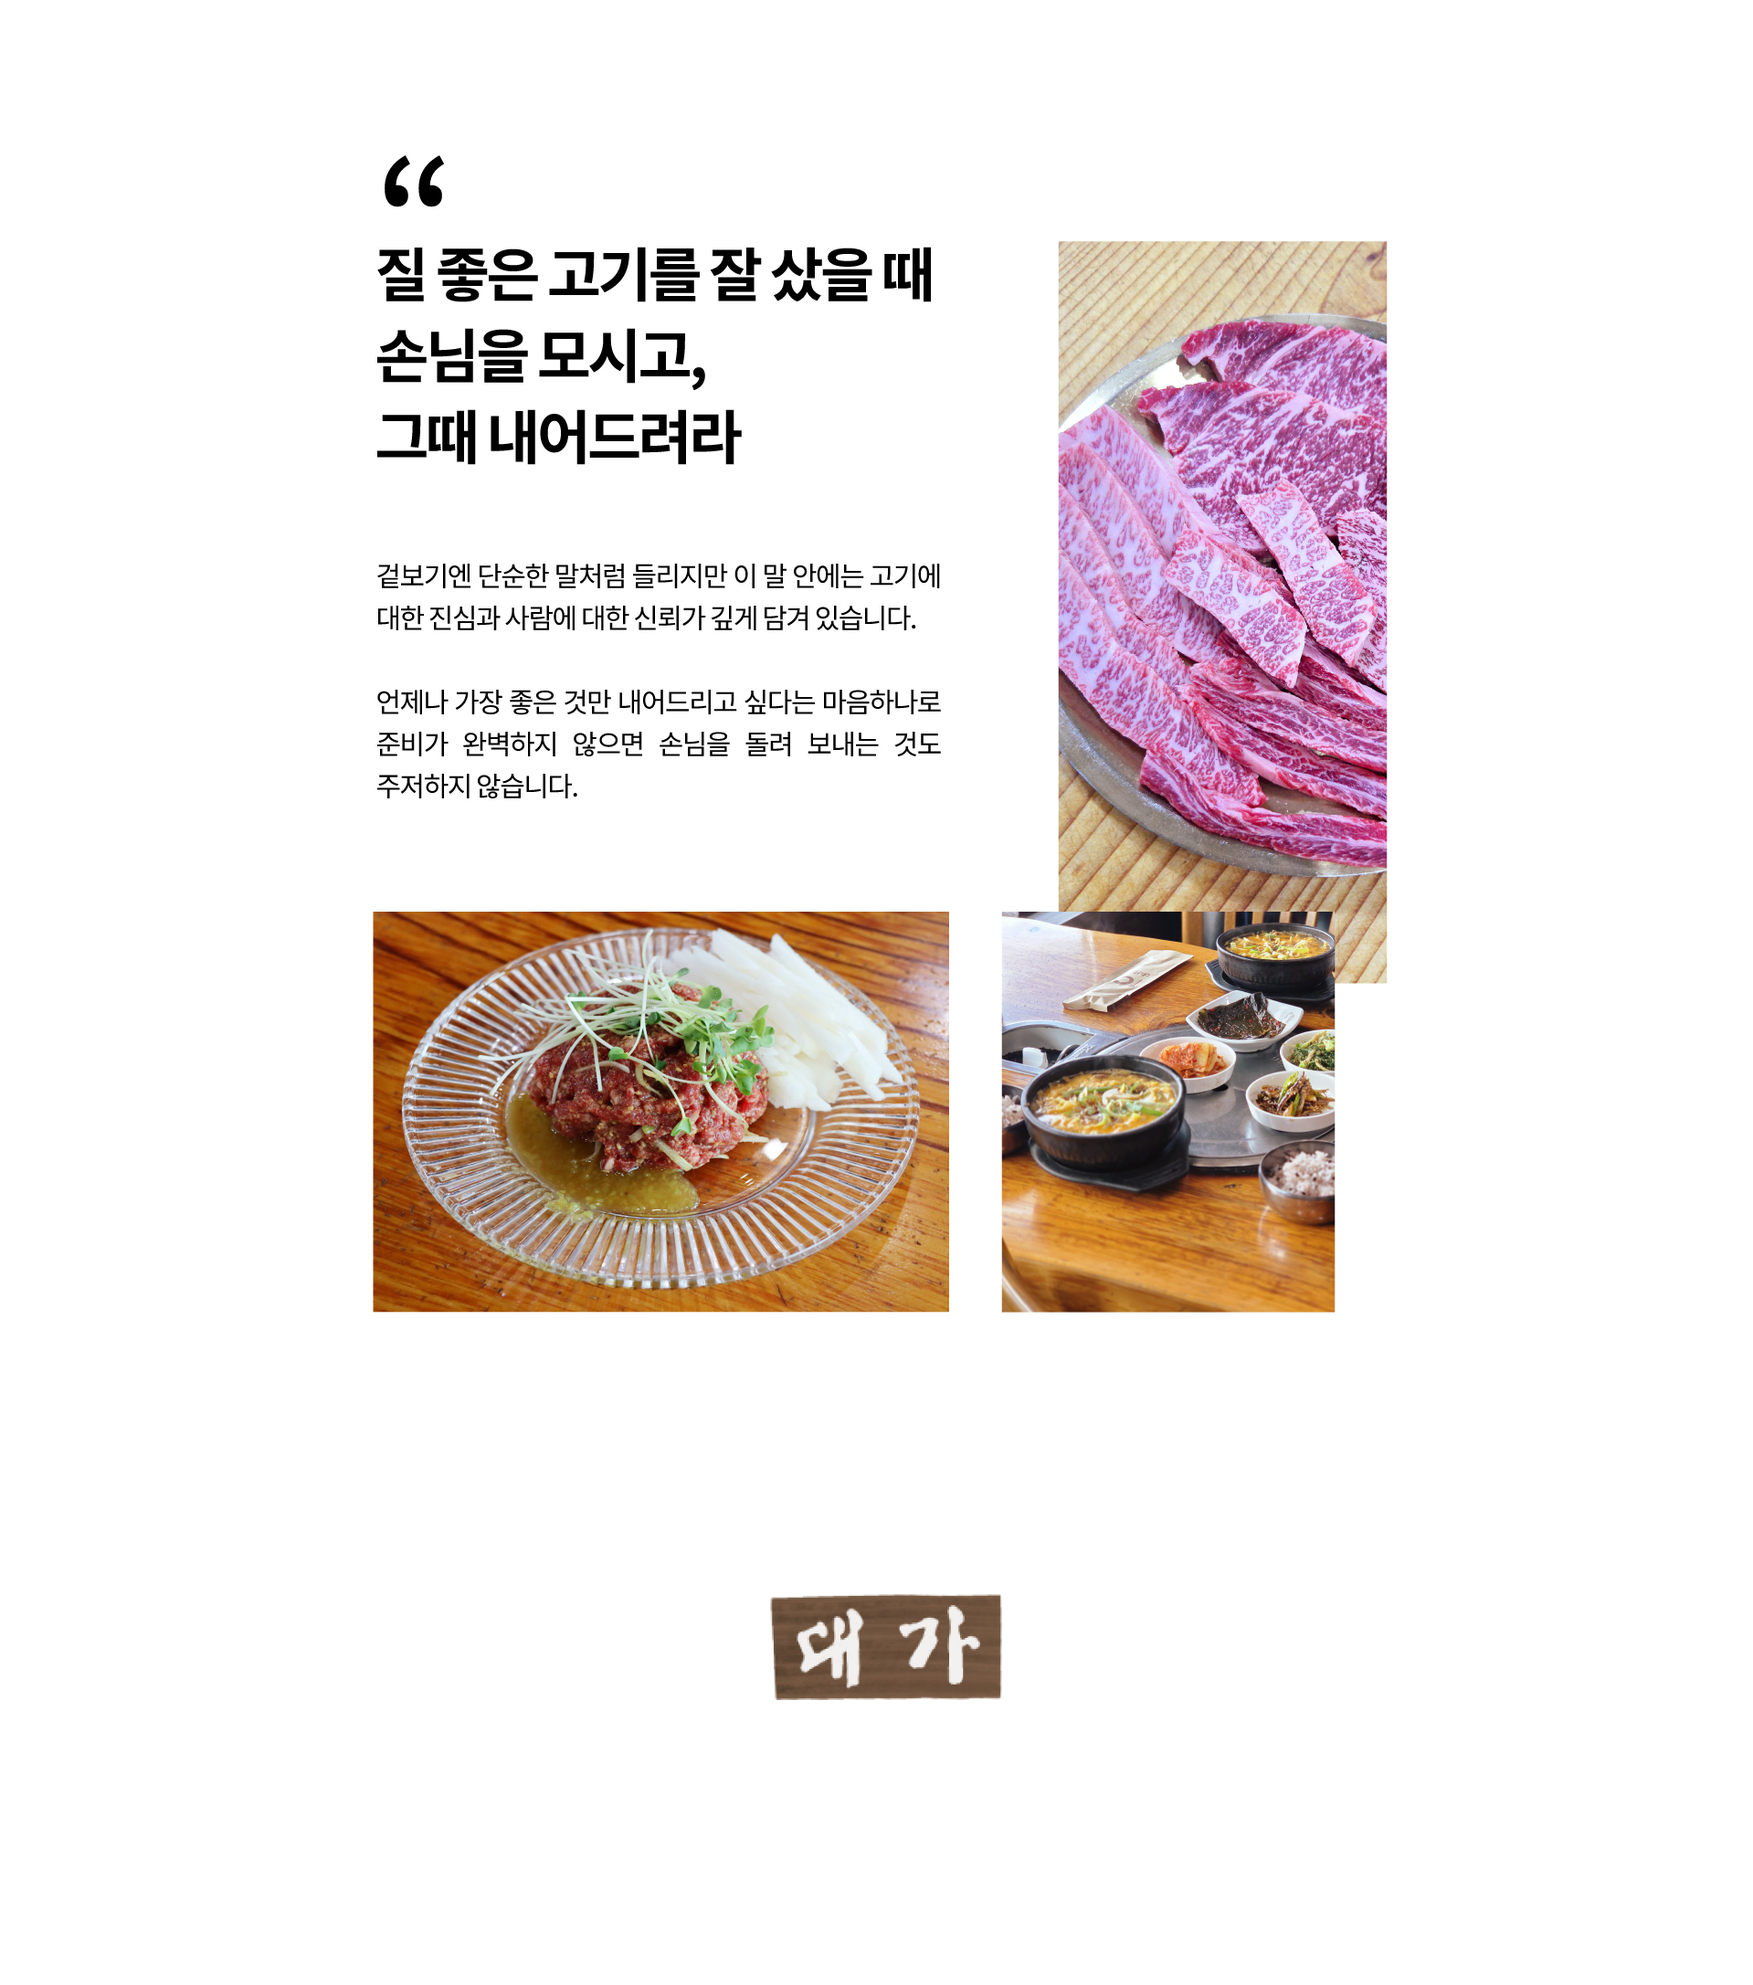
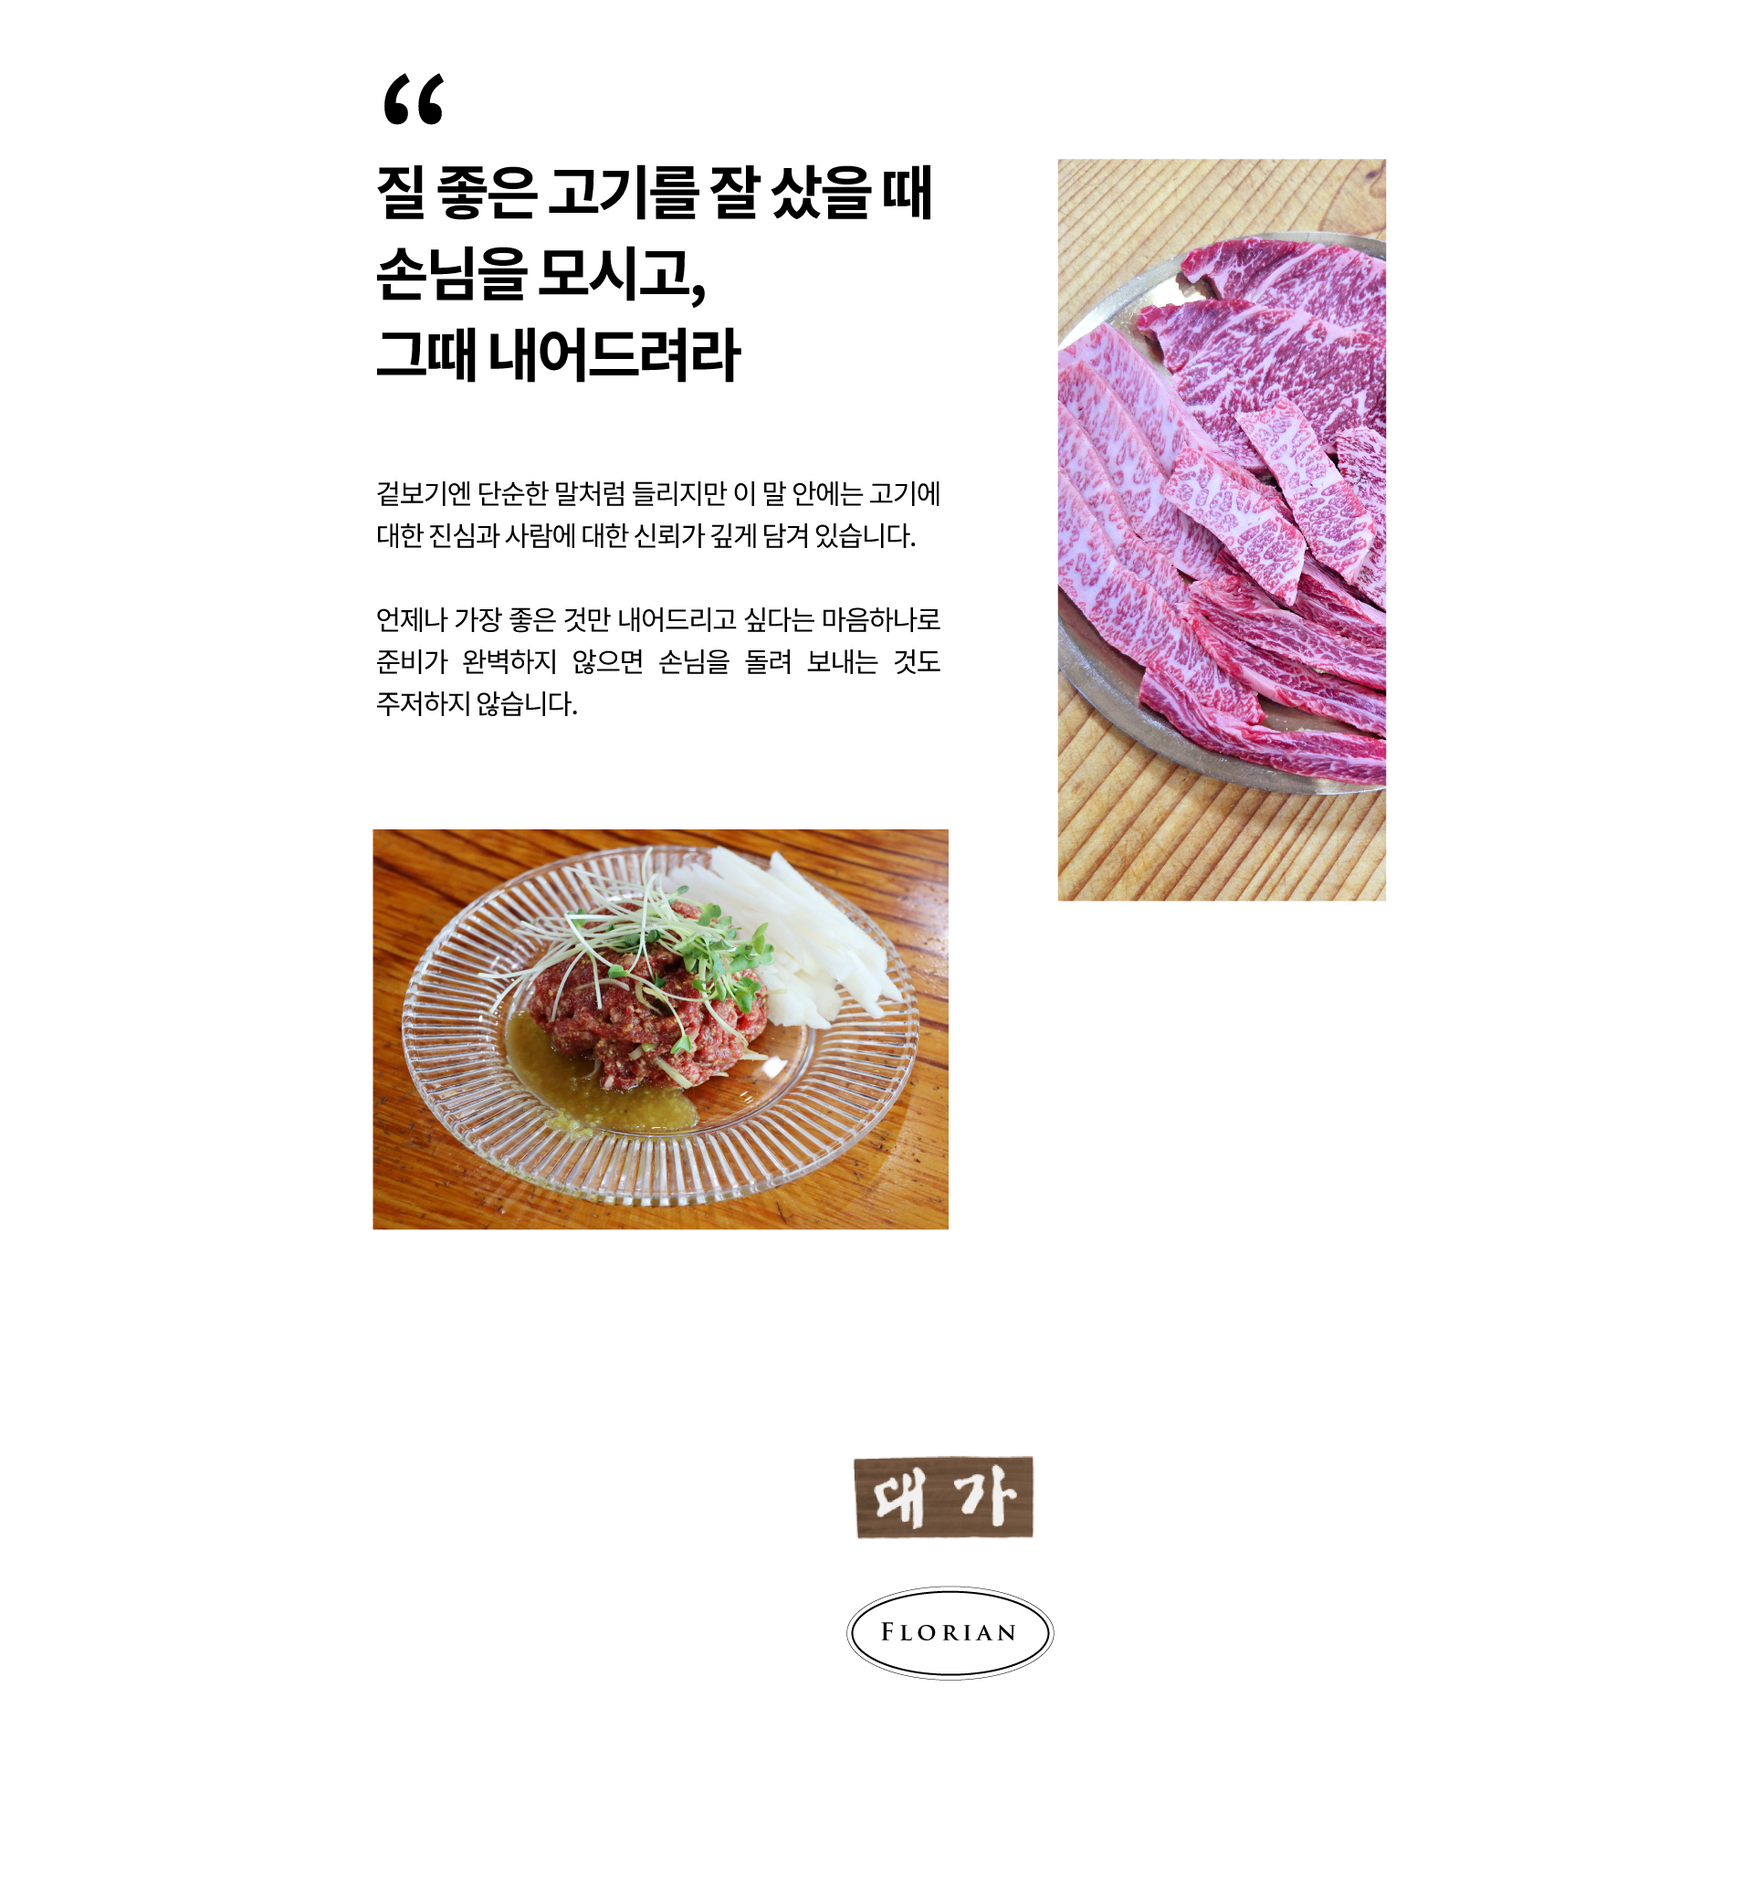
냥

Changed region(s): [[0.2152, 0.0623, 0.7994, 0.6852], [0.2152, 0.0311, 0.5534, 0.4049], [0.4304, 0.7786, 0.6149, 0.872]]

diff --git a/src/components/store/store_detail.js b/src/components/store/store_detail.js
@@ -104,6 +104,7 @@ export default function StoreDetail() {
     const imageCandidates = Array.from({ length: MAX_IMAGES }, (_, i) => `${storeName}_${i + 1}`);
     if (!selectedStore)
         return _jsx("div", { children: "\uAC00\uAC8C \uC815\uBCF4\uB97C \uCC3E\uC744 \uC218 \uC5C6\uC2B5\uB2C8\uB2E4." });
+    console.log(selectedStore.detailImagelist);
     useEffect(() => {
         const checkFavorite = async () => {
             const user = auth.currentUser;
@@ -176,6 +177,8 @@ export default function StoreDetail() {
                                         return _jsx("div", { children: line }, i);
                                     }) }))] }, `pc-${idx}`))) }), _jsx("div", { className: "detail-images-mobile only-mobile", children: selectedStore.detailImagelist
                             .filter((src) => /상세페이지_M_\d+\.(jpg|png)$/i.test(src))
+                            .map((src, idx) => (_jsx("img", { src: src, alt: `모바일 상세 이미지 ${idx + 1}`, className: "store-image" }, `m-${idx}`))) }), _jsx("div", { className: "detail-images-smobile only-smobile", children: selectedStore.detailImagelist
+                            .filter((src) => /상세페이지_SM_\d+\.(jpg|png)$/i.test(src))
                             .map((src, idx) => (_jsx("img", { src: src, alt: `모바일 상세 이미지 ${idx + 1}`, className: "store-image" }, `m-${idx}`))) })] }), selectedStore.name === "도원식육식당" && (_jsxs("div", { className: "dowon-product-section", children: [_jsxs("div", { className: "dowon-product-inner", children: [_jsxs("div", { className: "dowon-product-title", children: ["\uC544\uC774\uB514\uC5B4\uC2A4 \uC778\uAE30\uC81C\uD488 ", _jsx("span", { className: "highlight", children: "\uAD6C\uB9E4\uD558\uAE30" })] }), _jsxs("div", { className: "dowon-product-grid dowon-only-pc", children: [_jsx("div", { className: "dowon-product-item", children: _jsxs("a", { target: "_blank", rel: "noopener noreferrer", href: "https://www.idus.com/v2/product/25792545-088d-4d5c-bb89-762a3b6533b0?search_word=%EB%8F%84%EC%9B%90+%ED%95%9C%EC%9A%B0&keyword_channel=user", children: [_jsx("img", { src: "/SAMGA-V3/samga/store/dowon/1.png", alt: "1\uBC88 \uC0C1\uD488" }), _jsx("div", { className: "dowon-product-name", children: "\uD55C\uC6B0(\uB300\uD328)\uB85C\uC2A4\uAD6C\uC774(2-3\uC778)" })] }) }), _jsx("div", { className: "dowon-product-item", children: _jsxs("a", { target: "_blank", rel: "noopener noreferrer", href: "https://www.idus.com/v2/product/d0e10218-942c-4664-b1b3-0c6c770c9e7e?search_word=%EB%8F%84%EC%9B%90+%ED%95%9C%EC%9A%B0&keyword_channel=user", children: [_jsx("img", { src: "/SAMGA-V3/samga/store/dowon/2.png", alt: "2\uBC88 \uC0C1\uD488" }), _jsx("div", { className: "dowon-product-name", children: "\uD55C\uC6B0(\uB9CC\uB2A5)\uC790\uD22C\uB9AC1\uD0A4\uB85C" })] }) }), _jsx("div", { className: "dowon-product-item", children: _jsxs("a", { target: "_blank", rel: "noopener noreferrer", href: "https://www.idus.com/v2/product/1953a42a-00ca-4418-af1b-576b2876e7f5?search_word=%EB%8F%84%EC%9B%90+%ED%95%9C%EC%9A%B0&keyword_channel=user", children: [_jsx("img", { src: "/SAMGA-V3/samga/store/dowon/3.png", alt: "3\uBC88 \uC0C1\uD488" }), _jsx("div", { className: "dowon-product-name", children: "(\uB208\uAF43)(1++9)\uD55C\uC6B0 \uB4F1\uC2EC(300G)" })] }) }), _jsx("div", { className: "dowon-product-item", children: _jsxs("a", { target: "_blank", rel: "noopener noreferrer", href: "https://www.idus.com/v2/product/4ee9f37c-16ff-4457-aab2-e823035a4b4d?search_word=%EB%8F%84%EC%9B%90+%ED%95%9C%EC%9A%B0&keyword_channel=user", children: [_jsx("img", { src: "/SAMGA-V3/samga/store/dowon/4.png", alt: "4\uBC88 \uC0C1\uD488" }), _jsx("div", { className: "dowon-product-name", children: "(\uAD6D\uB0B4\uC0B0)\uB3FC\uC9C0 \uAC08\uBE44\uCC1C" })] }) }), _jsx("div", { className: "dowon-product-item", children: _jsxs("a", { target: "_blank", rel: "noopener noreferrer", href: "https://www.idus.com/v2/product/bd28e21e-e78c-4296-ae61-1f48da56bbe2?search_word=%EB%8F%84%EC%9B%90+%ED%95%9C%EC%9A%B0&keyword_channel=user", children: [_jsx("img", { src: "/SAMGA-V3/samga/store/dowon/5.png", alt: "5\uBC88 \uC0C1\uD488" }), _jsx("div", { className: "dowon-product-name", children: "(\uBA85\uD488\uD55C\uC6B0\uC120\uBB3C)\uD55C\uC6B0\uD2B9\uBAA8\uB4EC0.6KG" })] }) })] }), _jsxs("div", { className: "dowon-product-grid dowon-only-mobile", children: [_jsx("div", { className: "dowon-product-item", children: _jsxs("a", { target: "_blank", rel: "noopener noreferrer", href: "https://www.idus.com/v2/product/25792545-088d-4d5c-bb89-762a3b6533b0?search_word=%EB%8F%84%EC%9B%90+%ED%95%9C%EC%9A%B0&keyword_channel=user", children: [_jsx("img", { src: "/SAMGA-V3/samga/store/dowon/1.png", alt: "1\uBC88 \uC0C1\uD488" }), _jsx("div", { className: "dowon-product-name", children: "\uD55C\uC6B0(\uB300\uD328)\uB85C\uC2A4\uAD6C\uC774(2-3\uC778)" })] }) }), _jsx("div", { className: "dowon-product-item", children: _jsxs("a", { target: "_blank", rel: "noopener noreferrer", href: "https://www.idus.com/v2/product/d0e10218-942c-4664-b1b3-0c6c770c9e7e?search_word=%EB%8F%84%EC%9B%90+%ED%95%9C%EC%9A%B0&keyword_channel=user", children: [_jsx("img", { src: "/SAMGA-V3/samga/store/dowon/2.png", alt: "2\uBC88 \uC0C1\uD488" }), _jsx("div", { className: "dowon-product-name", children: "\uD55C\uC6B0(\uB9CC\uB2A5)\uC790\uD22C\uB9AC1\uD0A4\uB85C" })] }) }), _jsx("div", { className: "dowon-product-item", children: _jsxs("a", { target: "_blank", rel: "noopener noreferrer", href: "https://www.idus.com/v2/product/1953a42a-00ca-4418-af1b-576b2876e7f5?search_word=%EB%8F%84%EC%9B%90+%ED%95%9C%EC%9A%B0&keyword_channel=user", children: [_jsx("img", { src: "/SAMGA-V3/samga/store/dowon/3.png", alt: "3\uBC88 \uC0C1\uD488" }), _jsx("div", { className: "dowon-product-name", children: "(\uB208\uAF43)(1++9)\uD55C\uC6B0 \uB4F1\uC2EC(300G)" })] }) }), _jsx("div", { className: "dowon-product-item", children: _jsxs("a", { target: "_blank", rel: "noopener noreferrer", href: "https://www.idus.com/v2/product/4ee9f37c-16ff-4457-aab2-e823035a4b4d?search_word=%EB%8F%84%EC%9B%90+%ED%95%9C%EC%9A%B0&keyword_channel=user", children: [_jsx("img", { src: "/SAMGA-V3/samga/store/dowon/4.png", alt: "4\uBC88 \uC0C1\uD488" }), _jsx("div", { className: "dowon-product-name", children: "(\uAD6D\uB0B4\uC0B0)\uB3FC\uC9C0 \uAC08\uBE44\uCC1C" })] }) })] })] }), _jsx("div", { className: "idius-all", children: _jsxs("a", { href: "https://www.idus.com/v2/search?keyword=%EB%8F%84%EC%9B%90%20%ED%95%9C%EC%9A%B0&keyword_channel=user", target: "_blank", rel: "noopener noreferrer", children: ["\uBAA8\uB4E0 \uC0C1\uD488 \uBCF4\uAE30 ", _jsx("span", { className: "arrow", children: ">" })] }) })] })), _jsxs("div", { className: "store-detail-top-wrapper", children: [_jsx("h2", { className: "section-title", children: "\uAC00\uAC8C \uC0C1\uC138 \uC774\uBBF8\uC9C0" }), _jsx("div", { className: "tab-buttons", children: tabs.map(tab => (_jsx("button", { className: `tab-button ${activeTab === tab ? 'active' : ''}`, onClick: () => setActiveTab(tab), children: tab }, tab))) }), _jsx("div", { className: "store-images", children: imageCandidates.map((name, idx) => (['.jpg', '.JPG', '.png'].map((ext) => {
                             const src = `/SAMGA-V3/samga/store/${currentFolder}/${name}${ext}`;
                             return (_jsx("img", { src: src, alt: `${storeName} ${activeTab} 이미지 ${idx + 1}`, className: "store-image", onError: (e) => {

diff --git a/src/components/store/storeDetail.css b/src/components/store/storeDetail.css
@@ -409,7 +409,7 @@
 }
 
 .deaga1-2 {
-  top: 14%;
+  top: 8%;
   left: 21%;
   transform: translateX(0);
   font-size: clamp(28px, 4vw, 60px);
@@ -786,19 +786,74 @@
 
 
 
-
-
+/* ✅ 처음엔 다 숨기기 */
 .only-pc {
-  display: block;
+  display: none;
 }
 
 .only-mobile {
   display: none;
 }
 
+.only-smobile {
+  display: none;
+}
+
+/* ✅ PC 전용 (1601px 이상) */
+@media (min-width: 1601px) {
+  .only-pc {
+    display: block;
+  }
+}
+
+/* ✅ 모바일 전용 (901px ~ 1600px) */
+@media (max-width: 1600px) and (min-width: 901px) {
+  .only-mobile {
+    display: block;
+    object-fit: cover;
+    width: 100%;
+    height: auto;
+  }
+
+  .detail-images-mobile .store-image {
+    width: 100%;
+    height: auto;
+    display: block;
+    object-fit: cover;
+  }
+
+  .detail-images-mobile {
+    width: 100%;
+  }
+
+}
+
+/* ✅ 소형 모바일 전용 (900px 이하) */
+@media (max-width: 900px) {
+  .only-smobile {
+    display: block;
+    /* object-fit: cover; */
+    width: 100%;
+    height: auto;
+  }
 
 
-@media (max-width: 1600px) {
+  .detail-images-smobile .store-image {
+    width: 100%;
+    height: auto;
+    display: block;
+    object-fit: cover;
+  }
+
+  .detail-images-smobile {
+    width: 100%;
+  }
+}
+
+
+
+
+/* @media (max-width: 1600px) {
   .only-pc {
     display: none;
   }
@@ -818,7 +873,7 @@
     width: 100%;
   }
 }
-
+ */
 
 .dowon-product-section {
   padding: 40px 20px;
@@ -886,7 +941,7 @@
     text-align: center;
     justify-content: center;
     align-items: center;
-    padding: 60px 20px 20px;
+    padding: 270px 20px 20px;
     box-sizing: border-box;
     align-items: center;
     /* ✅ 이거도 추가 추천 */
@@ -1285,10 +1340,7 @@
   }
 
   .store-slogan {
-    padding: 380px 20px 30px;
-    font-size: 24px;
-    line-height: 1.4;
-    text-align: start;
+    display: none;
   }
 
   .store-hero-image {

diff --git a/src/components/store/store_detail.tsx b/src/components/store/store_detail.tsx
@@ -155,6 +155,7 @@ export default function StoreDetail() {
     if (!selectedStore) return <div>가게 정보를 찾을 수 없습니다.</div>
 
 
+    console.log(selectedStore.detailImagelist)
 
     useEffect(() => {
         const checkFavorite = async () => {
@@ -389,6 +390,21 @@ export default function StoreDetail() {
                 <div className="detail-images-mobile only-mobile">
                     {selectedStore.detailImagelist
                         .filter((src) => /상세페이지_M_\d+\.(jpg|png)$/i.test(src))
+                        .map((src, idx) => (
+                            <img
+                                key={`m-${idx}`}
+                                src={src}
+                                alt={`모바일 상세 이미지 ${idx + 1}`}
+                                className="store-image"
+                            />
+                        ))}
+                </div>
+
+
+                 {/* ✅ 모바일 환경일 때만 보여짐 */}
+                <div className="detail-images-smobile only-smobile">
+                    {selectedStore.detailImagelist
+                        .filter((src) => /상세페이지_SM_\d+\.(jpg|png)$/i.test(src))
                         .map((src, idx) => (
                             <img
                                 key={`m-${idx}`}

diff --git a/src/data/storeData.js b/src/data/storeData.js
@@ -21,6 +21,9 @@ export const storeData = [
             '/SAMGA-V3/samga/store/deaga1/대가1호점상세페이지_M_1.jpg',
             '/SAMGA-V3/samga/store/deaga1/대가1호점상세페이지_M_2.jpg',
             '/SAMGA-V3/samga/store/deaga1/대가1호점상세페이지_M_3.jpg',
+            '/SAMGA-V3/samga/store/deaga1/대가1호점상세페이지_SM_1.jpg',
+            '/SAMGA-V3/samga/store/deaga1/대가1호점상세페이지_SM_2.jpg',
+            '/SAMGA-V3/samga/store/deaga1/대가1호점상세페이지_SM_3.jpg',
             '/SAMGA-V3/samga/store/deaga1/대가1호점상세페이지_PC_1.jpg',
             '/SAMGA-V3/samga/store/deaga1/대가1호점상세페이지_PC_2.jpg',
             '/SAMGA-V3/samga/store/deaga1/대가1호점상세페이지_PC_3.jpg',

diff --git a/src/data/storeData.ts b/src/data/storeData.ts
@@ -50,6 +50,9 @@ export interface Store {
         '/SAMGA-V3/samga/store/deaga1/대가1호점상세페이지_M_1.jpg',
         '/SAMGA-V3/samga/store/deaga1/대가1호점상세페이지_M_2.jpg',
         '/SAMGA-V3/samga/store/deaga1/대가1호점상세페이지_M_3.jpg',
+        '/SAMGA-V3/samga/store/deaga1/대가1호점상세페이지_SM_1.jpg',
+        '/SAMGA-V3/samga/store/deaga1/대가1호점상세페이지_SM_2.jpg',
+        '/SAMGA-V3/samga/store/deaga1/대가1호점상세페이지_SM_3.jpg',
         '/SAMGA-V3/samga/store/deaga1/대가1호점상세페이지_PC_1.jpg',
         '/SAMGA-V3/samga/store/deaga1/대가1호점상세페이지_PC_2.jpg',
         '/SAMGA-V3/samga/store/deaga1/대가1호점상세페이지_PC_3.jpg',

diff --git a/src/components/storelist.css b/src/components/storelist.css
@@ -49,7 +49,7 @@
 
 .landing-divider {
   width: 100%;
-  max-width: 900px;
+  max-width: 1100px;
   border: none;
   border-top: 1px solid #AD5457;
   margin: 24px auto 12px;
@@ -69,7 +69,7 @@
 
 .store-card-grid {
   display: grid;
-  grid-template-columns: repeat(3, 400px); /* ✅ 카드 크기 고정 */
+  grid-template-columns: repeat(3, 350px); /* ✅ 카드 크기 고정 */
   gap: 25px;
   justify-content: center; /* ✅ 그리드 전체 가운데 정렬 */
   padding: 0 10px;

diff --git a/src/components/Mapgallery.tsx b/src/components/Mapgallery.tsx
@@ -360,14 +360,6 @@ export default function MapGallery() {
 
 
 
-                  {/* <div className="subpage-links">
-                    <button
-                      className="sub-link"
-                      onClick={() => navigate(`/store/${encodeURIComponent(selectedStore.name)}`)}
-                    >
-                      상세페이지로 가기
-                    </button>
-                  </div> */}
 
                 </div>
               )

diff --git a/src/components/storefilterpage.css b/src/components/storefilterpage.css
@@ -80,7 +80,7 @@
 }
 
 .toggle-map-button {
-  /* margin-left: auto; */
+  margin-right: 15px;
   padding: 5px 12px;
   border-radius: 8px;
   background: #AD5457;
